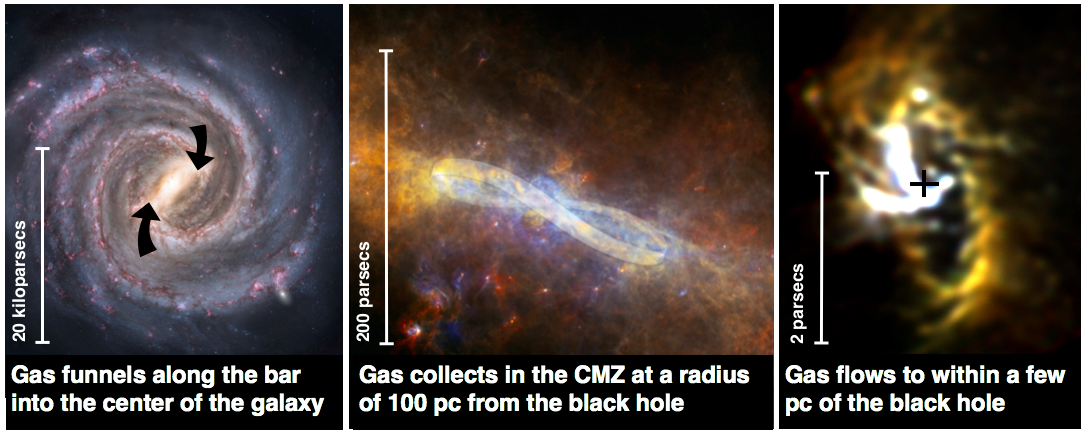
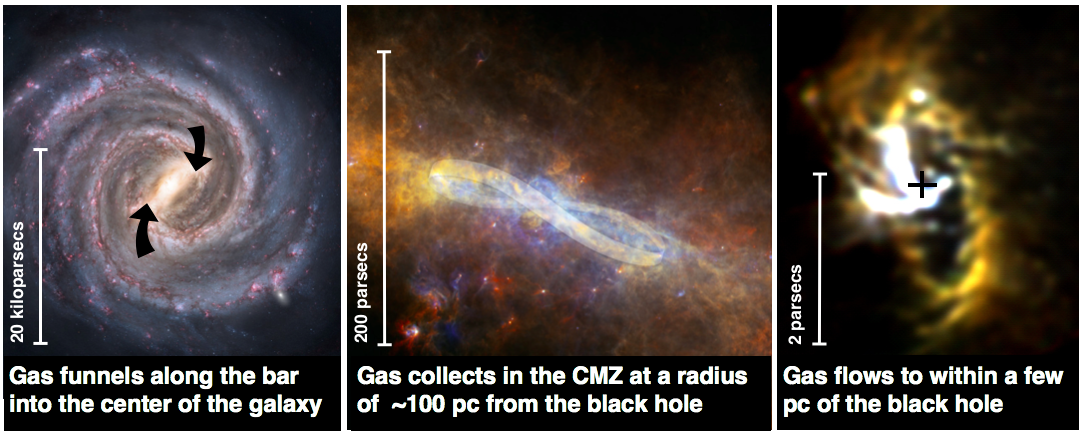
Updates from Overleaf

diff --git a/main.tex b/main.tex
@@ -63,7 +63,7 @@ What is the lifecycle of gas and stars in galaxy centers?
 \section*{Abstract}
 The closest galaxy center, our own Central Molecular Zone (CMZ; the
 central 500 pc of the Milky Way), is a powerful laboratory for studying the
-processes that shape galaxies across cosmic time, from large-scale gas flows
+secular processes that shape galaxies across cosmic time, from large-scale gas flows
 and star formation to stellar feedback and interaction with a central
 supermassive black hole. Research over the last decade has revealed that the
 process of converting gas into stars in galaxy centers differs from 
@@ -90,27 +90,23 @@ Telescope.
 
 \section{Galactic center star formation \& feedback: key questions}
 
-%Star formation in the centers of large galaxies like the Milky Way is different from `normal' star formation. % I hate this sentence, will return to it.
-
-
 Our own Central Molecular Zone (CMZ; the inner 500 pc of our Galaxy) is the
 closest galaxy nucleus, and it is actively forming stars \citep{Morris1996a}.
 It is the only location suitable for studying star formation in hot, turbulent,
 high-pressure  \citep{Ao2013a, Ginsburg2016a, Krieger2017a}
 molecular gas analogous to the environments of high-redshift galaxies
 \citep{Kruijssen2013a}, in which most stars formed. The centers of 
-galaxies have more scattered efficiencies than their disks
+galaxies have more scattered star formation efficiencies than their disks
 \citep{Leroy2013a,Usero2015a,Bigiel2016a,Gallagher2018a}, suggesting that
 galaxy centers undergo episodic cycles of bursty star formation and quiescence
 that may be connected to the growth of central black holes
 \citep[e.g.,][]{Kruijssen2014c,Krumholz2017a,Torrey2017c,Seo2019a}.
 We highlight two overarching questions that we can answer over the next decade:
 how is our Galactic center fed, and how does it digest gas into stars?
-% stars are galaxy poop.
 
 \begin{figure}[htp]
-    \includegraphics[width=0.5\textwidth]{White_paper_v4.1.pdf}
-    \includegraphics[width=0.5\textwidth]{Krumholz2015_fig16left.pdf}
+    \includegraphics[width=0.52\textwidth]{White_paper_v4.1.pdf}
+    \includegraphics[width=0.48\textwidth]{Krumholz2015_fig16left.pdf}
     \caption{(left) A cartoon of the gas flows in and around the CMZ.
     Inflow from the Galactic bar feeds the CMZ, which contributes
     some material to star formation and some to the central black hole.
@@ -119,8 +115,7 @@ how is our Galactic center fed, and how does it digest gas into stars?
     of CMZ gas cycles.  The green and blue curves show the history
     of gas going through accumulation, star formation driven expulsion,
     and fading as the stars go out.  They show these curves in observational
-    parameter space of star formation rate surface density vs gas surface
-    density as would be seen at 10 and 500 pc resolution, respectively.
+    parameter space of star formation rate surface density as a function of the gas surface density as would be seen at 10 and 500 pc resolution, respectively.
     The dashed curves show the fitted Kennicutt-Schmidt relations
     from \citet{Kennicutt1998a}, \citet{Bigiel2008a}, and \citet{Daddi2010a}.}
 \end{figure}
@@ -128,7 +123,7 @@ how is our Galactic center fed, and how does it digest gas into stars?
 
 \subsection{How is gas deposited into the Galactic center from the Galactic disk?}
 Fresh material arrives to the Galactic center from the disk via the Galactic bar.
-Star formation efficiency in the bar is lower than in much of the disk
+The star formation efficiency in the bar is lower than in much of the disk
 \citep[e.g.,][]{Muraoka2019a,Seo2019a}, which means fresh gas can be
 transported inward efficiently.
 A growing suite of simulations and analytic models
@@ -189,7 +184,7 @@ to understand where gas resides during the low-state in galaxies.
 
 \textit{The key advance needed to measure the lifecycle of gas in the Galactic
 center and the feeding of the central black hole is an accurate
-three-dimensional model of the central $R_{gal}<100$ pc.} Significant improvements in
+three-dimensional model of the central $R_{gal}\lesssim100$ pc.} Significant improvements in
 our understanding
 of the CMZ's geometry have been made in the last decade, refining the structural
 model of the molecular gas from a simple ring to a more realistic and physically
@@ -223,7 +218,7 @@ require continued development of the statistical tools to link observed gas
 kinematics
 and density distributions with the underlying physics
 \citep{Koch2017a,Burkhart2018a}.  Observing the gas around the CMZ is essential
-for determining how the accretion process, i.e., the intersection of bar and
+for determining how the accretion process, i.e., the interface between bar and
 CMZ orbits, affects the observed geometry and controls the inflow process.
 
 \textbf{
@@ -233,23 +228,23 @@ efficient instrumentation (e.g., wide-bandwidth and/or multi-pixel receivers) an
 therefore require long-term continued access to single-dish radio telescopes.
 }
 
-Multiwavelength observations add dimensions to the geometric constraints.
+Multiwavelength observations add important independent information to the above geometric constraints.
 The iron K-$\alpha$ lines in the X-ray trace light echoes from individual
 high-energy events in the Galactic center, and monitoring and timing these
 events can provide direct distance constraints on clouds
 \citep[e.g.,][]{Clavel2014a,Churazov2017b,Churazov2017a,Terrier2018a}.
 Long-term continued access to X-ray imaging and spectroscopy is needed to
 continue these light echo experiments, which grow in power and value over time.
-Future imaging surveys with the James Webb Space Telescope (JWST) will provide
+Furthermore, future imaging surveys with the James Webb Space Telescope (JWST) will provide
 detailed, high-resolution extinction maps.  Use of JWST in the Galactic center
 relies on support for high-dynamic-range imaging, wide-area mapping modes.
 Localization of the extincted stars to the Galactic center will enable
 molecular cloud mapping analogous to those made of the local kiloparsec with,
 e.g., Pan-STARRS \citep{Green2015b}.  Wide-area dust emission and spectral line
-mapping with OST will probe the structure of, and turbulence in, CMZ clouds.
+mapping with the Origins Space Telescope (OST) will probe the structure of, and turbulence in, CMZ clouds.
 Polarization mapping in the sub-mm with OST will be key to understanding the
 role of magnetic fields in star formation and gas flows in this region.
-By studying our closest example in exquisite detail, we hope to understand the
+By studying the closest example in exquisite detail, we hope to understand the
 processes that control the gas flows and star formation in galaxy centers and
 the feeding of central supermassive black holes.
 
@@ -269,7 +264,7 @@ Quintuplet, may be shallower than the canonical IMF \citep{Hosek2019a}. The
 molecular gas in the CMZ forms stars at a much lower rate than
 comparable-density gas in the Galactic disk \citep{Longmore2013b}, showing that
 star formation does not occur at a uniform density threshold
-\citep{Rathborne2014b,Kruijssen2014c,Walker2018a,Barnes2017b,Ginsburg2018a}.
+\citep{Kruijssen2014c,Rathborne2014b,Barnes2017b,Walker2018a,Ginsburg2018a}.
 Determining what drives the difference between Galactic disk and CMZ
 star formation will provide physical insight needed to understand
 cosmic star formation.
@@ -298,8 +293,8 @@ entire CMZ is needed to perform a census of the ongoing star formation.  The
 CMZ constitutes the most confused and extincted line of sight in the sky, so
 the mid-infrared Spitzer survey has been deeply ineffective at measuring star
 formation in this region \citep{Koepferl2015a}. Individual programs have
-begun to tally the protostars \citep[Walker et al, in prep, Barnes et al, in
-prep]{Ginsburg2018a,Lu2019a} and the SMA has completed a systematic
+begun to tally the protostars (\citealt{Ginsburg2018a,Lu2019a}; Walker et al.\ in prep.; Barnes et al.\ in
+prep.) and the SMA has completed a systematic
 survey \citep{Battersby2017b}. However, a systematic deep and high-resolution
 survey, such as the proposed ALMA CMZ Exploration Survey (ACES, PI Longmore) is
 needed to directly measure the star formation rate via the counting of
@@ -322,8 +317,7 @@ stars.
 For the coming decade, ALMA and JWST will be the key instruments for providing
 the prestellar and stellar census, respectively.  They will simultaneously measure
 gas properties.  However, because ALMA is limited to the millimeter regime,
-it will have limited accuracy when determining embedded stellar properties because
-of dust optical depth in disks; the ngVLA will be required to directly measure
+it will have limited accuracy when determining embedded stellar properties due to the high dust optical depth in disks; the ngVLA will be required to directly measure
 the properties of the most deeply hidden protostars.  Very high-resolution ($\sim100\mathrm{~AU}$)
 long-baseline observations with the ngVLA in the 70-120 GHz range will measure
 the kinematics of protostellar disks, providing a direct probe of protostellar
@@ -338,7 +332,7 @@ modes capable of detecting both.
 
 \textbf{Measuring star formation in the CMZ requires high-resolution
 observations over wide areas.  ALMA, the JVLA and ngVLA, JWST, and OST provide
-these capabilities.  Wide-area, high-resolution capabilities should be 
+these capabilities.  Wide-area, high-resolution, and high-dynamic range capabilities should be 
 prioritized.
 }
 
@@ -353,12 +347,11 @@ Recent and ongoing ALMA
 surveys are providing tens of parsec-scale observations of nearby galaxies
 covering large areas with a few lines (PHANGS-ALMA, Leroy et al.\ in prep) or
 CMZ-scale areas across the entire millimeter spectrum (ALCHEMI).  Analogous
-data sets covering our own CMZ are needed to enable the application
-of the Galactic work to universal scales.  Surveys of the molecular
+data sets covering our own CMZ are needed to generalize the Galactic work to extragalactic systems.  Surveys of the molecular
 chemistry across the CMZ are needed to provide indirect means of understanding
 the physical scales that will remain unresolved in external galaxies.
 Studies of the CMZ will connect Galactic to extragalactic studies of star
-formation provided that wide-field mapping capabilities are available.
+formation, provided that wide-field mapping capabilities are available.
 % probably need to make that last sentence more explicit: basic idea is that
 % different molecular species trace different processes and we can therefore
 % use maps of different molecular tracers (or ratios) to infer local physical
